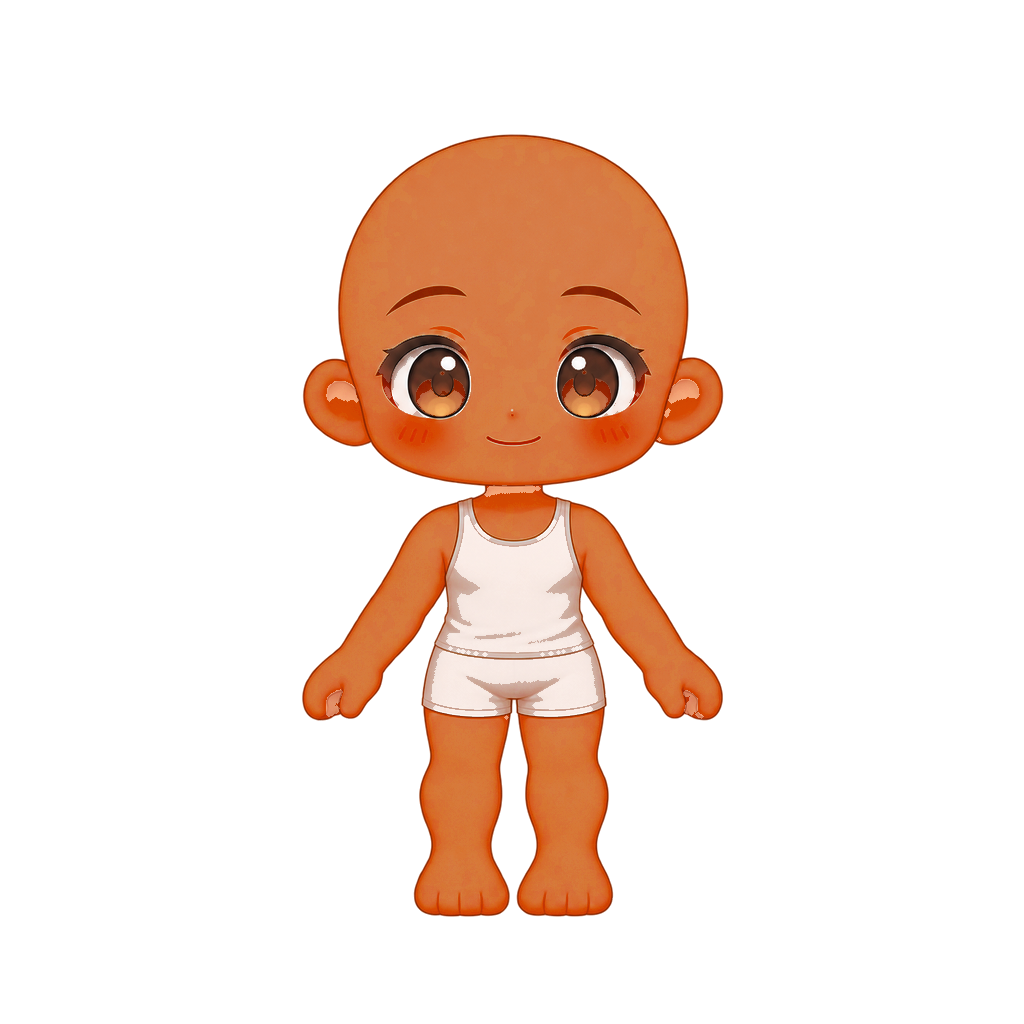
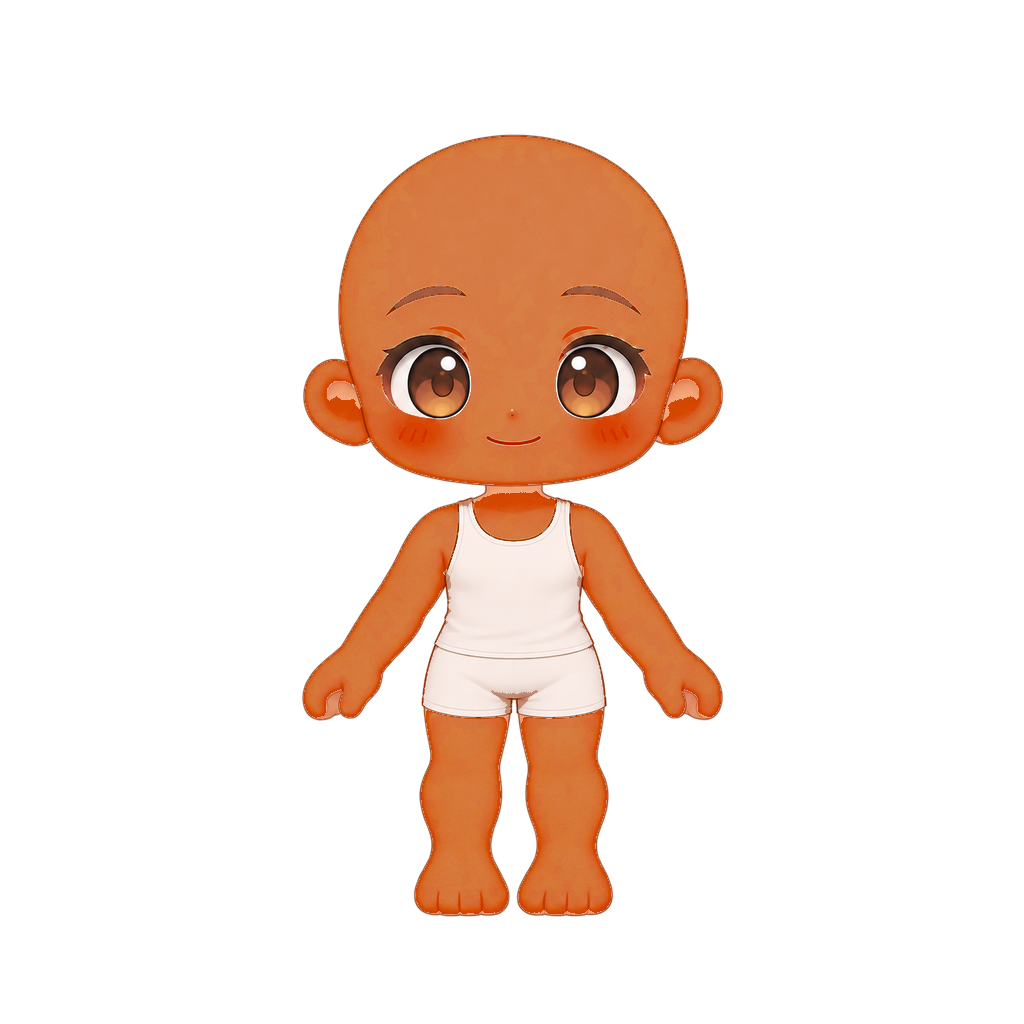
fix(iq2): 肌色を衣装の手・脚・首にも反映、顎のはみ出し解消
Claude-Session: https://claude.ai/code/session_01NXuBE3U4UAebXMPco3J5UQ

diff --git a/app/lib/avatar/catalog.ts b/app/lib/avatar/catalog.ts
@@ -114,7 +114,7 @@ export const OUTFIT_READY = new Set(["knight_default__f","mage_default__f","arch
 export const OUTFIT_HAS_BACK = new Set<string>([]);
 
 /** 画像差し替え時にブラウザキャッシュを無効化するためのバージョン */
-export const ASSET_V = "7";
+export const ASSET_V = "8";
 
 export function resolveLayers(c: AvatarConfig, job: JobKey): { layer: Layer; src: string | null; missing: boolean }[] {
     const g = GEAR[job];
@@ -126,7 +126,8 @@ export function resolveLayers(c: AvatarConfig, job: JobKey): { layer: Layer; src
     const out = (which: "back" | "front") => {
         const p = find(g.outfit, c.outfit); const ready = !!p?.src && OUTFIT_READY.has(`${p.id}__${c.base}`);
         if (which === "back") return { src: ready && OUTFIT_HAS_BACK.has(`${p.id}__${c.base}`) ? `/avatar/outfit_back/${p.id}__${c.base}.png` : "", missing: false };
-        return { src: ready ? `/avatar/outfit_front/${p.id}__${c.base}.png` : null, missing: !ready };
+        const sk = c.skin && c.skin !== "light" ? `__${c.skin}` : "";
+        return { src: ready ? `/avatar/outfit_front/${p.id}__${c.base}${sk}.png` : null, missing: !ready };
     };
     // 素体：public/avatar/body/<base>__<skin>.png。納品済みは BODY_READY に登録
     const bodyReady = BODY_READY.has(`${c.base}__${c.skin}`);

diff --git a/tools/avatar_skin.py b/tools/avatar_skin.py
@@ -9,9 +9,11 @@ hexrgb=lambda h: tuple(int(h[i:i+2],16) for i in (1,3,5))
 def tint(img,target):
     a=np.array(img.convert("RGBA")); rgb=a[:,:,:3].astype(np.uint8)
     r,g,b=[rgb[:,:,i].astype(int) for i in range(3)]
-    skin=(r>150)&(r-b>15)&(r-b<120)&(g>=b-5)&(r>=g)&(a[:,:,3]>10)&~((r>235)&(g>228)&(b>218))  # 白インナーは除く
-    skin=ndimage.binary_closing(skin,iterations=2)
     hsv=cv2.cvtColor(rgb,cv2.COLOR_RGB2HSV).astype(float)
+    H,S,V=hsv[:,:,0],hsv[:,:,1],hsv[:,:,2]
+    # 肌：オレンジ寄りの色相、彩度は中くらい（白目・白インナー・金装飾は除外）
+    skin=(a[:,:,3]>10)&(H>=3)&(H<=17)&(S>=38)&(S<=125)&(V>=130)
+    skin=ndimage.binary_opening(skin,iterations=1); skin=ndimage.binary_closing(skin,iterations=2)
     bh,bs,bv=cv2.cvtColor(np.uint8([[hexrgb(BASE)]]),cv2.COLOR_RGB2HSV)[0,0].astype(float)
     th,ts,tv=cv2.cvtColor(np.uint8([[hexrgb(target)]]),cv2.COLOR_RGB2HSV)[0,0].astype(float)
     hsv[:,:,0][skin]=(hsv[:,:,0][skin]+(th-bh))%180
@@ -21,4 +23,8 @@ def tint(img,target):
 for f in glob.glob("public/avatar/body/*__light.png"):
     im=Image.open(f)
     for n,hx in SKINS.items(): tint(im,hx).save(f.replace("__light.png",f"__{n}.png"))
+# 衣装に描かれた手・脚・首の肌も同じ色に（<id>__<base>__<skin>.png）
+for f in glob.glob("public/avatar/outfit_front/*_default__?.png"):
+    im=Image.open(f)
+    for n,hx in SKINS.items(): tint(im,hx).save(f.replace(".png",f"__{n}.png"))
 print("done")
